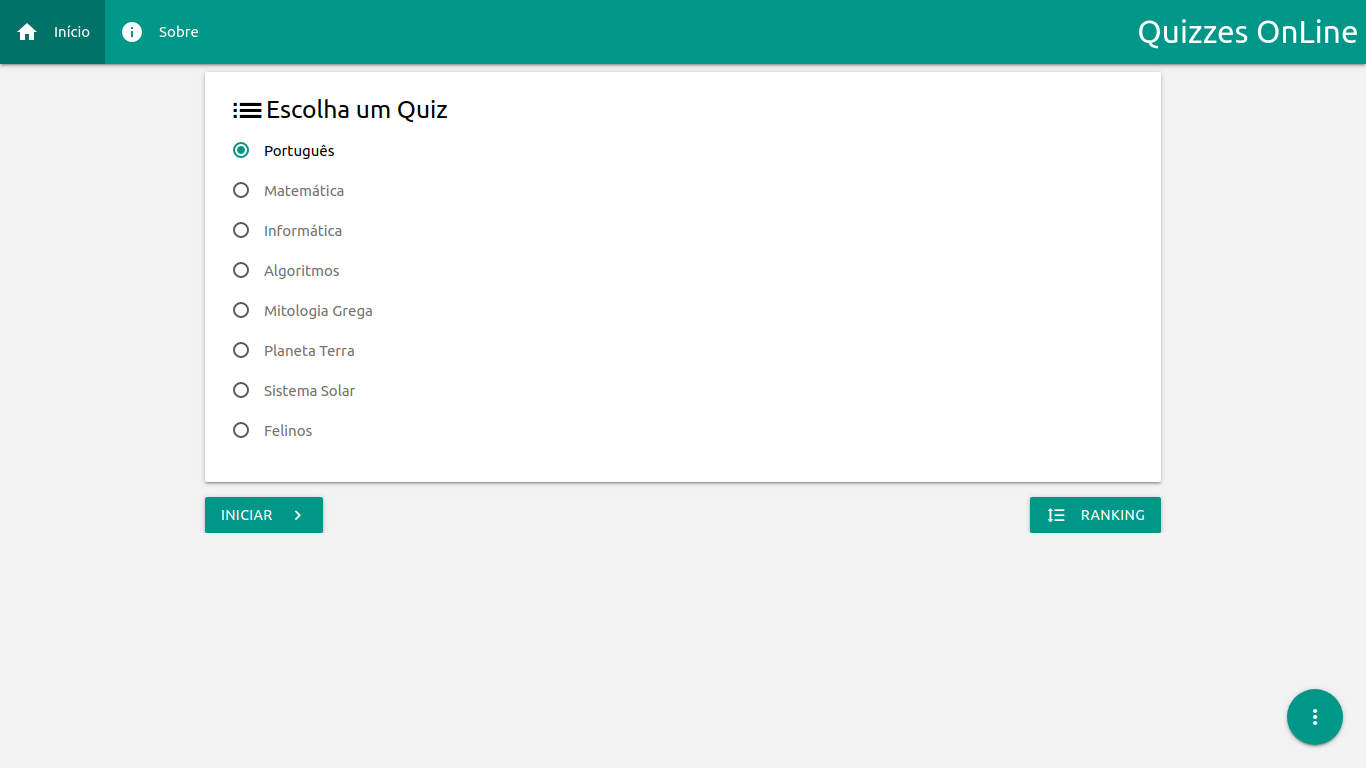
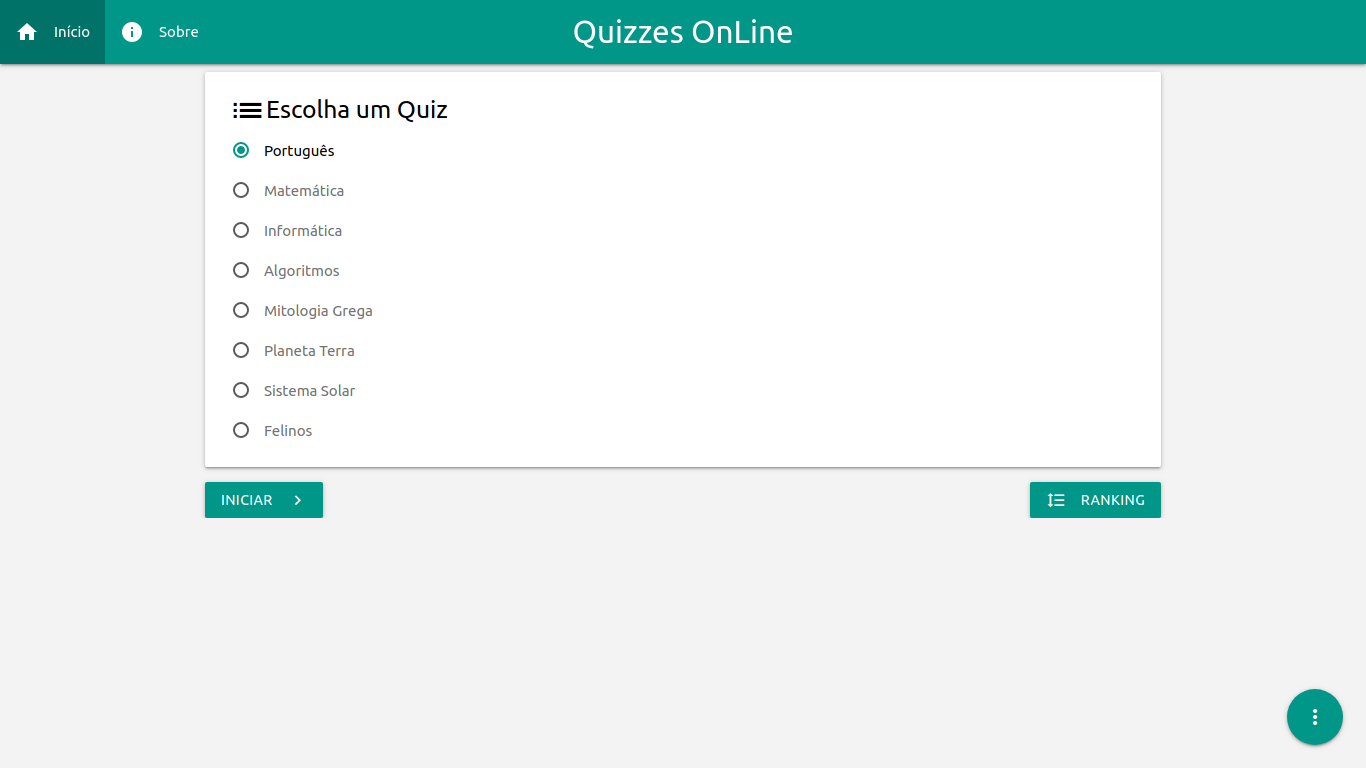
delete button added; improvements

Changed region(s): [[0.1537, 0.5938, 0.8609, 0.7188], [0.8302, 0.0312, 1.0, 0.0625], [0.3997, 0.0312, 0.5842, 0.0625]]

diff --git a/src/script.js b/src/script.js
@@ -39,7 +39,7 @@ for (let i = 0; i < names.length; i++) {
 	radioButtons +=
 		`<p>
 			<label>
-				<input class="with-gap" name="selectQuiz" type="radio" data-text="${names[i]}" ${i == 0 ? 'checked' : ''} />
+				<input class="with-gap" name="selectQuiz" type="radio" data-num="${i}" data-text="${names[i]}" ${i == 0 ? 'checked' : ''} />
 				<span>${names[i]}</span>
 			</label>
 		</p>`
@@ -49,7 +49,7 @@ options.innerHTML = radioButtons
 
 types = document.querySelectorAll('[name=selectQuiz]')
 
-function darkTheme() {
+const darkTheme = () => {
 	localStorage.setItem('darktheme', 'true')
 	metaThemeColor.setAttribute('content', '#2962ff')
 	metaMSThemeColor.setAttribute('content', '#2962ff')
@@ -57,7 +57,7 @@ function darkTheme() {
 	document.body.setAttribute('data-theme', 'dark')
 }
 
-function lightTheme() {
+const lightTheme = () => {
 	localStorage.removeItem('darktheme')
 	metaThemeColor.setAttribute('content', '#009688')
 	metaMSThemeColor.setAttribute('content', '#009688')
@@ -70,7 +70,7 @@ if (localStorage.getItem('darktheme')) {
 	switcherTheme.checked = true
 }
 
-function render() {
+const render = () => {
 	let html = `<p id="time" style="margin:5px 0 0 0">${timeProgress(time)}<i class="material-icons right" style="top:-2px;margin-left:5px">access_time</i></p><h6>${currentQuestion + 1}. ${questions[selectedType][currentQuestion]}</h6>`
 
 	const answersQuestion = [answers[selectedType][currentQuestion], ...fakeAnswers[selectedType][currentQuestion]],
@@ -98,7 +98,7 @@ function render() {
 	quiz.innerHTML = html
 }
 
-function createPagination() {
+const createPagination = () => {
 	let htmlPagination = '<li class="disabled"><a><i class="material-icons">chevron_left</i></a></li>'
 
 	for (let i = 0; i < questions[selectedType].length; i++)
@@ -110,7 +110,7 @@ function createPagination() {
 	pagination.scrollLeft = pagination.querySelectorAll('li')[currentQuestion < parseInt(questions[selectedType].length / 2 + 1) ? 0 : parseInt(questions[selectedType].length / 2) + 1].offsetLeft
 }
 
-function timeProgress(time) {
+const timeProgress = time => {
 	const hour = parseInt(time / 3600)
 	time -= hour * 3600
 
@@ -126,13 +126,13 @@ function timeProgress(time) {
 	return `${minutes}m ${time}s`
 }
 
-function reTimeProgress(time = String) {
+const reTimeProgress = time => {
 	const str = time.split(' ')
 
 	return parseInt(str[0].replace('m', '')) * 60 + parseInt(str[1].replace('s', ''))
 }
 
-function start() {
+const start = () => {
 	selectQuiz.classList.add('hide')
 	btnStart.classList.add('hide')
 	btnRank.classList.add('hide')
@@ -140,6 +140,7 @@ function start() {
 	btnNext.classList.remove('hide')
 	btnGiveUp.classList.remove('hide')
 	pagination.classList.remove('hide')
+	btnSave.removeAttribute('disabled')
 
 	types.forEach((item, index) => {
 		if (item.checked) {
@@ -154,7 +155,7 @@ function start() {
 	}, 1000)
 }
 
-function stop() {
+const stop = () => {
 	selectQuiz.classList.remove('hide')
 	btnStart.classList.remove('hide')
 	btnRank.classList.remove('hide')
@@ -175,7 +176,7 @@ function stop() {
 	time = 0
 }
 
-function next() {
+const next = () => {
 	const currentAnswers = document.querySelectorAll(`[name=question${currentQuestion}]`)
 
 	let sumWithoutResponse = 0
@@ -237,7 +238,7 @@ function next() {
 	}
 }
 
-function arraySort(array) {
+const arraySort = array => {
 	const newArray = []
 	let bestArray = -1,
 		indexBestArray = -1,
@@ -264,17 +265,16 @@ function arraySort(array) {
 	return newArray
 }
 
-function save() {
+const save = () => {
 	if (textName.value.trim() !== '' && textName.value.length > 2) {
 		const allSaved = localStorage.getItem('registeredItems')
 
 		if (allSaved === null)
-			localStorage.setItem('registeredItems', `{"items":[["${types[selectedType].getAttribute('data-text')}","${textName.value}",${points}, ${questions[selectedType].length},"${timeProgress(time)}"]]}`)
+			localStorage.setItem('registeredItems', `{"items":[["${types[selectedType].getAttribute('data-text')}","${textName.value}",${points},${questions[selectedType].length},"${timeProgress(time)}"]]}`)
 		else {
 			let newArray = JSON.parse(allSaved).items
 
 			newArray.push([types[selectedType].getAttribute('data-text'), textName.value, points, questions[selectedType].length, timeProgress(time)])
-
 			newArray = arraySort(newArray)
 
 			localStorage.setItem('registeredItems', `{"items":${JSON.stringify(newArray)}}`)
@@ -294,7 +294,7 @@ function save() {
 	}
 }
 
-function renderSavedItems() {
+const renderSavedItems = (active = 0) => {
 	if (M.Tabs.getInstance(document.querySelector('#tabs')) !== undefined)
 		M.Tabs.getInstance(document.querySelector('#tabs')).destroy()
 
@@ -302,29 +302,32 @@ function renderSavedItems() {
 		htmlParent = '',
 		htmlItem, newItems
 	const items = localStorage.getItem('registeredItems'),
-		defaultHtmlItem = '<table class="responsive-table"><thead><tr><th>Nome</th><th>Acertos</th><th>Tempo</th></tr></thead><tbody>'
-
-	if (items !== null)
-		newItems = JSON.parse(items).items
+		defaultHtmlItem = '<table class="responsive-table"><thead><tr><th>Posição</th><th class="center-align">Nome</th><th class="center-align">Acertos</th><th class="center-align">Tempo</th><th class="center-align">Remover</th></tr></thead><tbody>'
 
 	for (let i = 0; i < types.length; i++) {
-		html += `<li class="tab tabs-fixed-width tab-demo"><a href="#quiz${i}">${types[i].getAttribute('data-text')}</a></li>`
+		html += `<li class="tab tabs-fixed-width tab-demo"><a class="${active == i ? 'active' : ''}" href="#quiz${i}">${types[i].getAttribute('data-text')}</a></li>`
 
 		htmlItem = defaultHtmlItem
 
-		if (items !== null)
-			for (let j = 0; j < newItems.length; j++)
+		if (items !== null) {
+			newItems = JSON.parse(items).items
+			for (let j = 0, num = 0, pos = 1; j < newItems.length; j++, num++) {
 				if (types[i].getAttribute('data-text') === newItems[j][0]) {
 					htmlItem +=
 						`<tr>
-							<td>${newItems[j][1]}</td>
-							<td>${newItems[j][2]}/${newItems[j][3]}</td>
-							<td>${newItems[j][4]}</td>
+							<td>${pos}°</td>
+							<td class="center-align">${newItems[j][1]}</td>
+							<td class="center-align">${newItems[j][2]}/${newItems[j][3]}</td>
+							<td class="center-align">${newItems[j][4]}</td>
+							<td class="center-align"><i class="material-icons red-text" style="cursor:pointer" onclick="deleteItem(${num}, ${types[i].getAttribute('data-num')})">close</i></td>
 						</tr>`
 
 					newItems.splice(j, 1)
+					pos += 1
 					j--
 				}
+			}
+		}
 
 		htmlItem += '</tbody></table>'
 
@@ -333,26 +336,32 @@ function renderSavedItems() {
 	}
 
 	document.querySelector('#tabs').innerHTML = html
-
 	document.querySelector('#tabItems').innerHTML = htmlParent
-
 	M.Tabs.init(document.querySelectorAll('.tabs'))
 }
 
-function clearSavedItems() {
+const deleteItem = (item, tabIndex) => {
+	const allSaved = JSON.parse(localStorage.getItem('registeredItems')).items
+
+	allSaved.splice(item, 1)
+	localStorage.setItem('registeredItems', `{"items":${JSON.stringify(allSaved)}}`)
+	renderSavedItems(tabIndex)
+}
+
+const clearSavedItems = () => {
 	localStorage.removeItem('registeredItems')
 	renderSavedItems()
 }
 
-window.addEventListener('DOMContentLoaded', function () {
+window.addEventListener('DOMContentLoaded', () => {
 	M.Sidenav.init(document.querySelectorAll('.sidenav'))
 	M.Modal.init(document.querySelectorAll('.modal'))
 	M.FloatingActionButton.init(document.querySelectorAll('.fixed-action-btn'), {
 		hoverEnabled: false
 	})
 
-	if (localStorage.getItem('firstVisit') === null) {
-		localStorage.setItem('firstVisit', 'false')
+	if (!localStorage.getItem('firstVisit')) {
+		localStorage.setItem('firstVisit', '0')
 		M.TapTarget.init(document.querySelectorAll('.tap-target'), {
 			onClose: () => {
 				M.FloatingActionButton.getInstance(document.querySelector('.fixed-action-btn')).open()
@@ -375,8 +384,9 @@ window.addEventListener('DOMContentLoaded', function () {
 		})
 
 		setTimeout(() => {
-			M.Tabs.getInstance(document.querySelector('#tabs')).updateTabIndicator()
-			document.querySelector('#tabs').scrollLeft = tabs.offsetLeft
+			const tab = document.querySelector('#tabs')
+			M.Tabs.getInstance(tab).updateTabIndicator()
+			tab.scrollLeft = tabs.offsetLeft
 		}, 300)
 	}
 

diff --git a/index.html b/index.html
@@ -66,7 +66,7 @@
 	<div class="navbar-fixed">
 		<nav id="nav" class="hide">
 			<div class="nav-wrapper">
-				<a href="./" class="brand-logo right hide-on-med-and-down">Quizzes OnLine</a>
+				<a href="./" class="brand-logo center hide-on-med-and-down">Quizzes OnLine</a>
 				<a class="brand-logo left hide-on-large-only">Quizzes OnLine</a>
 				<a data-target="slide-out" class="sidenav-trigger right c-pt"><i class="material-icons">menu</i></a>
 
@@ -86,7 +86,8 @@
 	<section id="container" class="container hide">
 		<section id="selectQuiz" class="card-panel">
 			<h5 style="margin:-15px 0 0 0" class="corTexto"><i class="material-icons" style="top:11px;font-size:37px">list</i>Escolha um Quiz</h5>
-			<div id="options"></div>
+			
+			<div style="margin-bottom: -15px" id="options"></div>
 
 			<section class="fixed-action-btn">
 				<a id="menu" class="btn-floating btn-large waves-effect waves-light" style="-webkit-user-select:none"><i class="material-icons">more_vert</i></a>
@@ -100,7 +101,6 @@
 			<section class="tap-target" data-target="menu">
 				<div class="tap-target-content">
 					<h5>Algumas opções</h5>
-					<p>• Veja o Ranking Local</p>
 					<p>• Veja o repositório do projeto no <strong>GitHub</strong></p>
 					<p>• Altere o Tema para <strong>Dark</strong></p>
 				</div>

diff --git a/sobre/src/script.js b/sobre/src/script.js
@@ -5,9 +5,6 @@ const root = document.querySelector(':root'),
 	metaMSThemeColor = document.querySelector('meta[name=msapplication-navbutton-color]'),
 	icon = document.querySelector('link[rel=icon]')
 
-M.Sidenav.init(document.querySelectorAll('.sidenav'))
-M.Materialbox.init(document.querySelectorAll('.materialboxed'))
-
 if (innerWidth >= 1024)
 	document.querySelector('#card').className = 'card horizontal'
 
@@ -22,8 +19,14 @@ if (localStorage.getItem('darktheme')) {
 	darkTheme()
 }
 
+document.addEventListener('DOMContentLoaded', () => {
+	M.Sidenav.init(document.querySelectorAll('.sidenav'))
+	M.Materialbox.init(document.querySelectorAll('.materialboxed'))
+})
+
 window.onload = () => {
 	document.querySelector('#preloader').remove()
 	document.querySelector('#nav').classList.remove('hide')
 	document.querySelector('#container').classList.remove('hide')
+	document.querySelector('footer').classList.remove('hide')
 }

diff --git a/src/style.css b/src/style.css
@@ -170,6 +170,15 @@ a.btn:hover {
 	margin-left: 5px
 }
 
+#save:disabled {
+	background-color: #82C785 !important;
+	color: white !important
+}
+
+i[data-disabled] {
+	color: #f36b73 !important
+}
+
 #pagination {
 	-webkit-user-select: none;
 	white-space: nowrap;
@@ -269,13 +278,6 @@ a.btn:hover {
 	}
 }
 
-@media (max-width: 600px) {
-	#rank {
-		margin-left: 5px;
-		float: unset !important
-	}
-}
-
 @media (max-width: 767px) {
 	.modal {
 		width: 100%
@@ -285,13 +287,17 @@ a.btn:hover {
 		width: 100%
 	}
 
+	#rank {
+		margin-left: 5px;
+		float: unset !important
+	}
+
 	#next,
 	#finish,
 	#start {
 		margin-left: 10px !important
 	}
 
-	#rank,
 	#giveUp,
 	#save,
 	#showAnswers {

diff --git a/sobre/index.html b/sobre/index.html
@@ -66,7 +66,7 @@
 	<div class="navbar-fixed">
 		<nav id="nav" class="hide">
 			<div class="nav-wrapper">
-				<a href="./" class="brand-logo right hide-on-med-and-down">Sobre</a>
+				<a href="./" class="brand-logo center hide-on-med-and-down">Sobre</a>
 				<a class="brand-logo left hide-on-large-only">Sobre</a>
 				<a data-target="slide-out" class="sidenav-trigger right c-pt"><i class="material-icons">menu</i></a>
 
@@ -116,7 +116,7 @@
 		</section>
 	</main>
 
-	<footer class="page-footer">
+	<footer class="page-footer hide">
 		<div class="container">
 			<div class="row">
 				<div class="col l6 s12">
